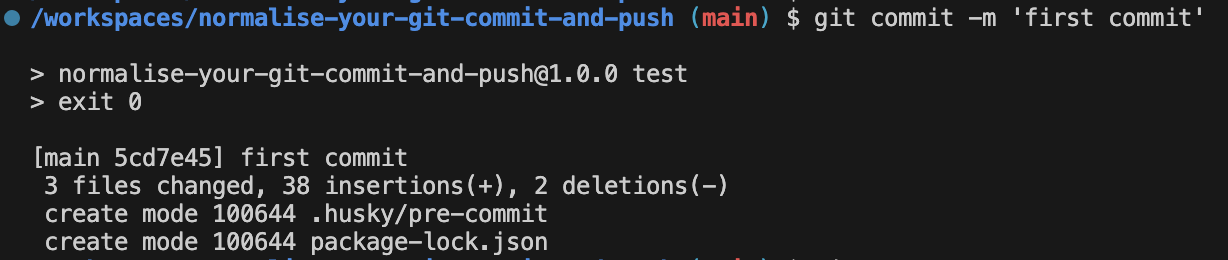
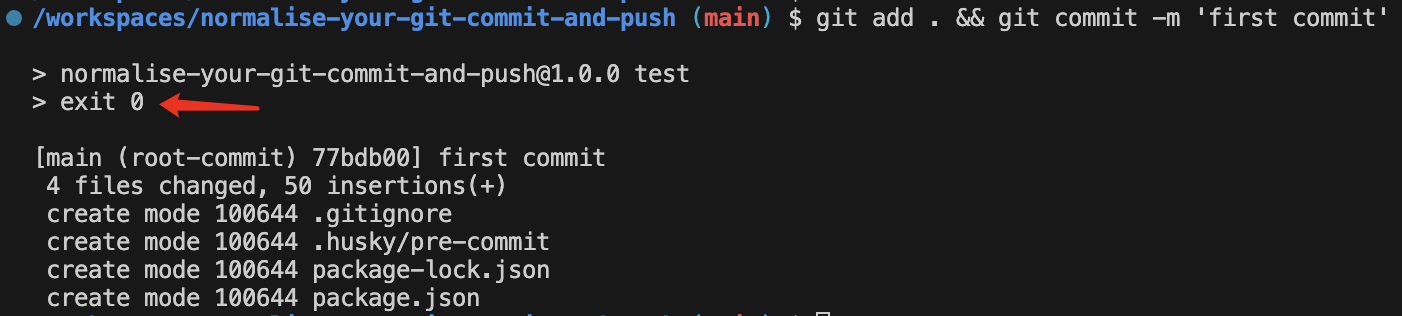
docs: wording change

diff --git a/steps.md b/steps.md
@@ -219,8 +219,10 @@ Changing it to `exit 0` will make the commit work.
 +  "test": "exit 0",
 ```
 
+Commit again:
+
 ```sh
-git commit -am 'first commit'
+git add . && git commit -m 'first commit'
 ```
 
 ![alt text](images/image-1.png)
